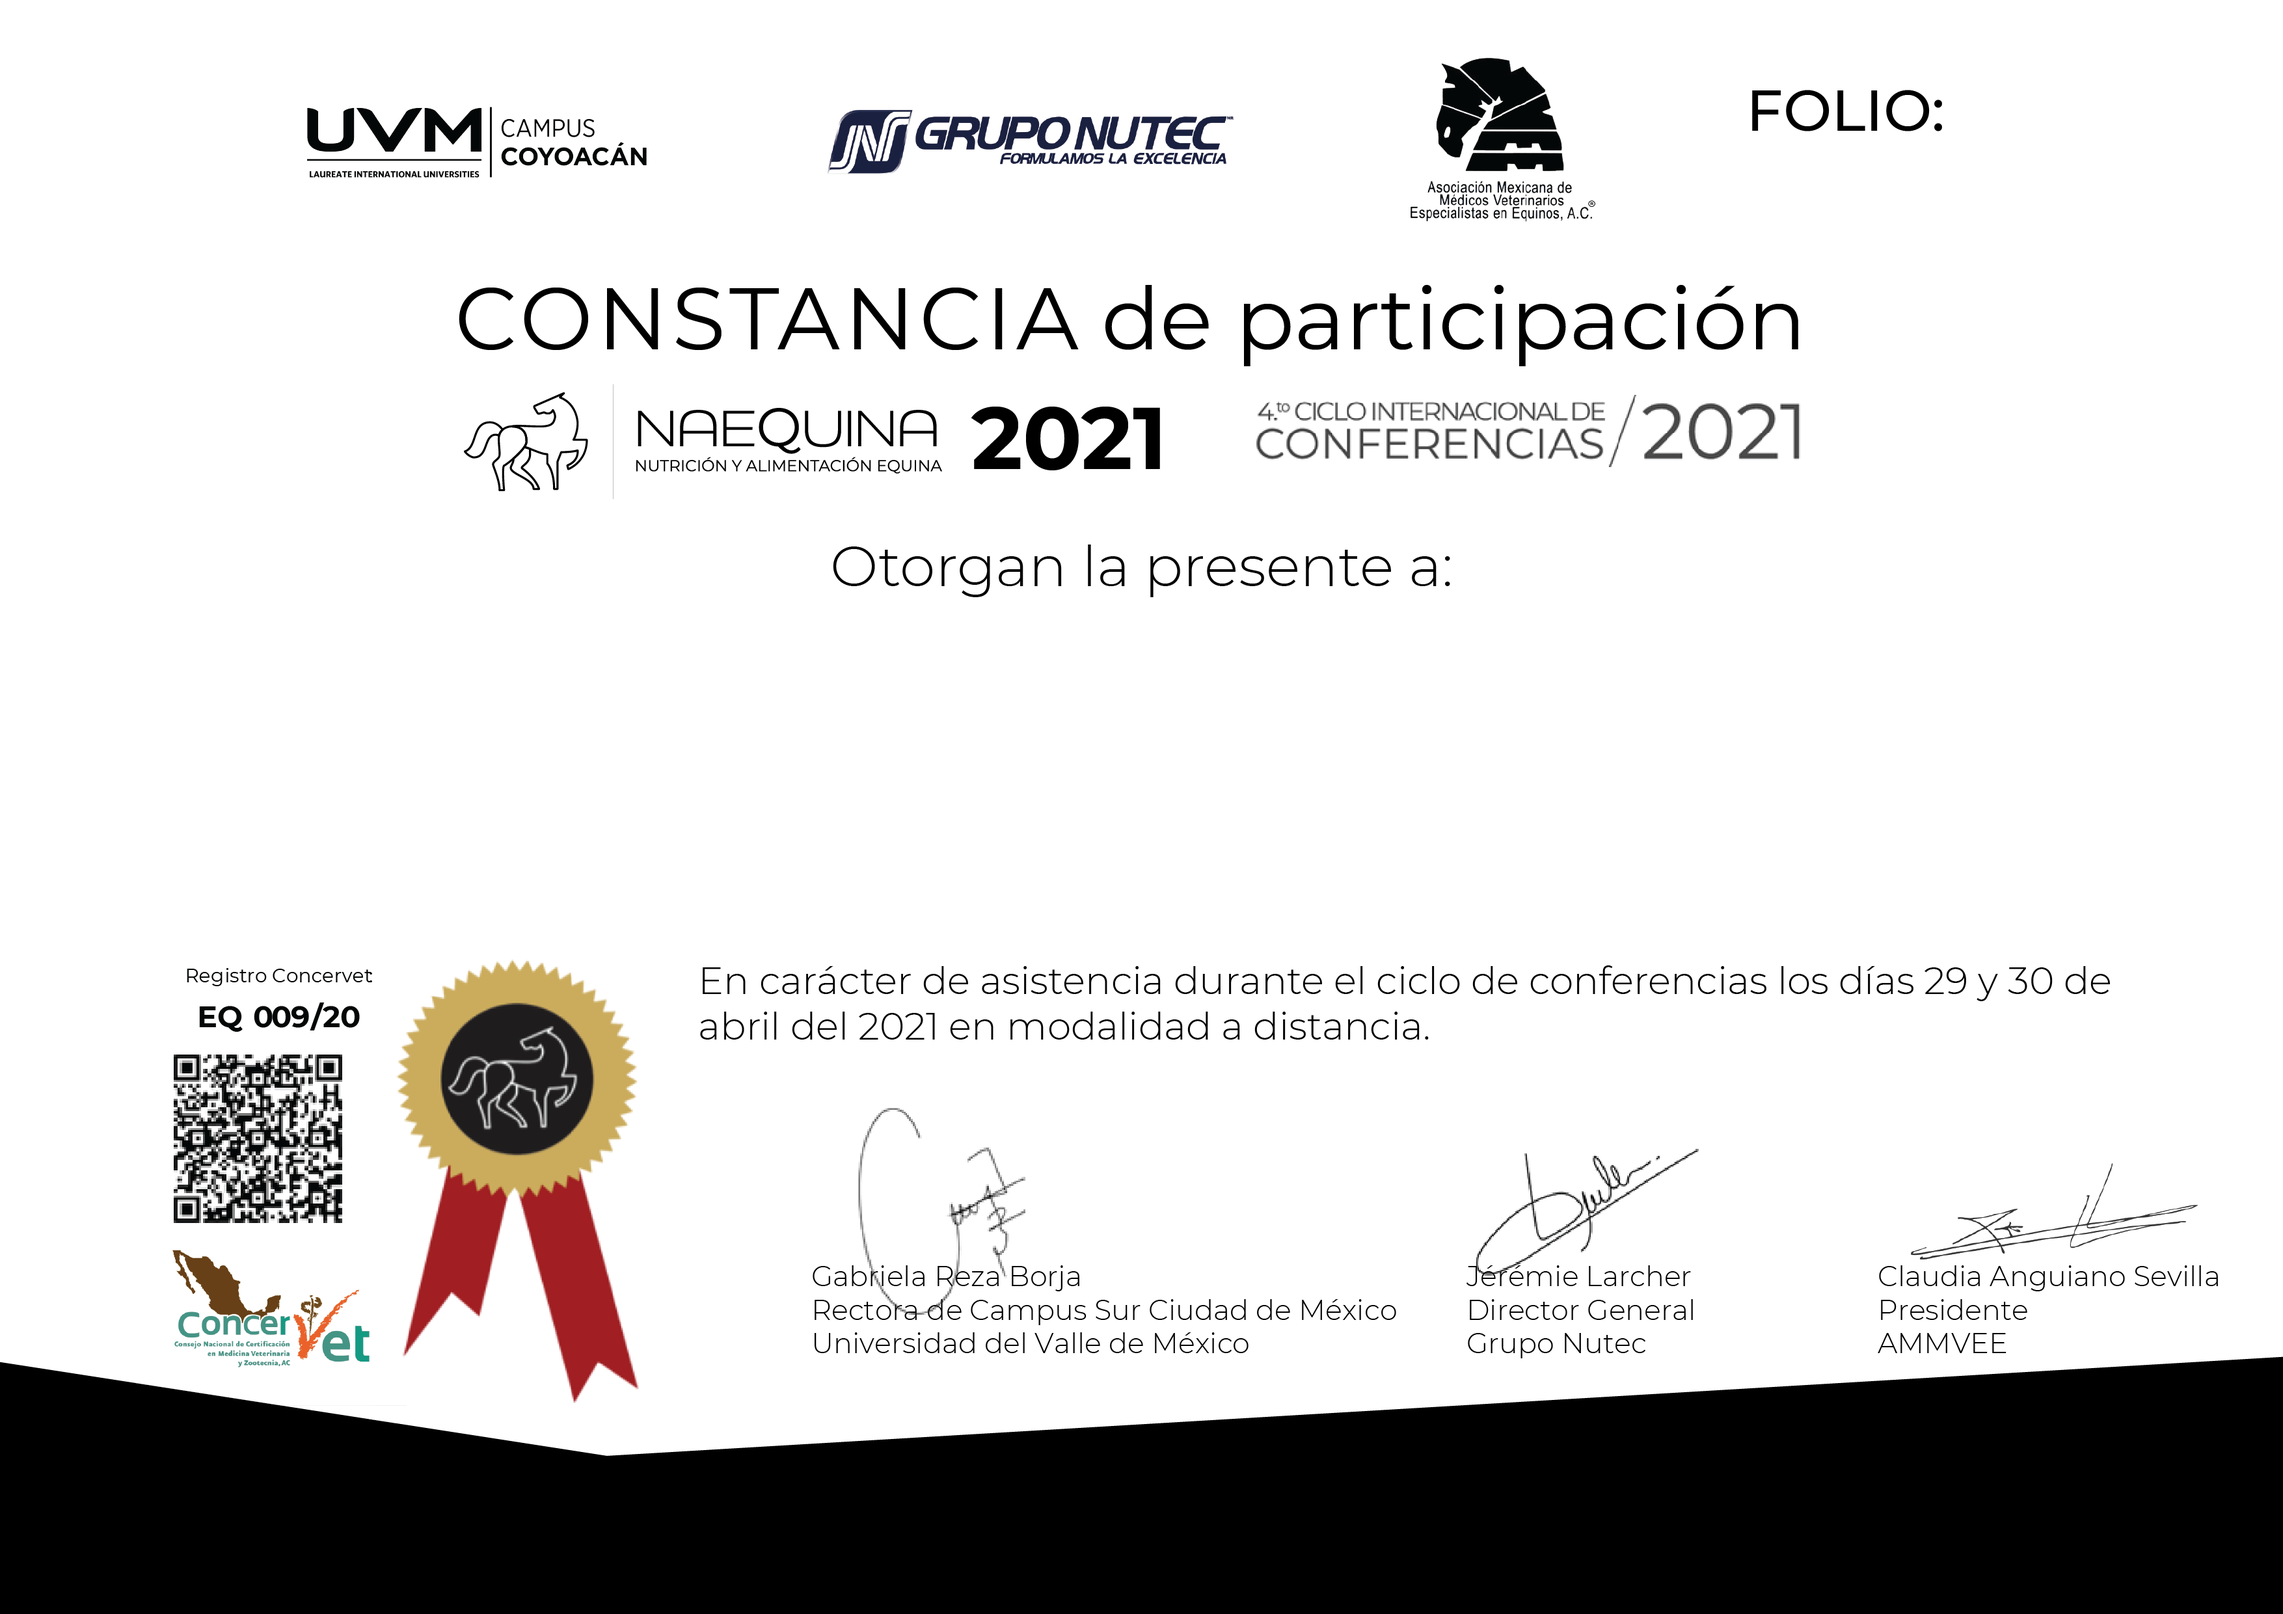
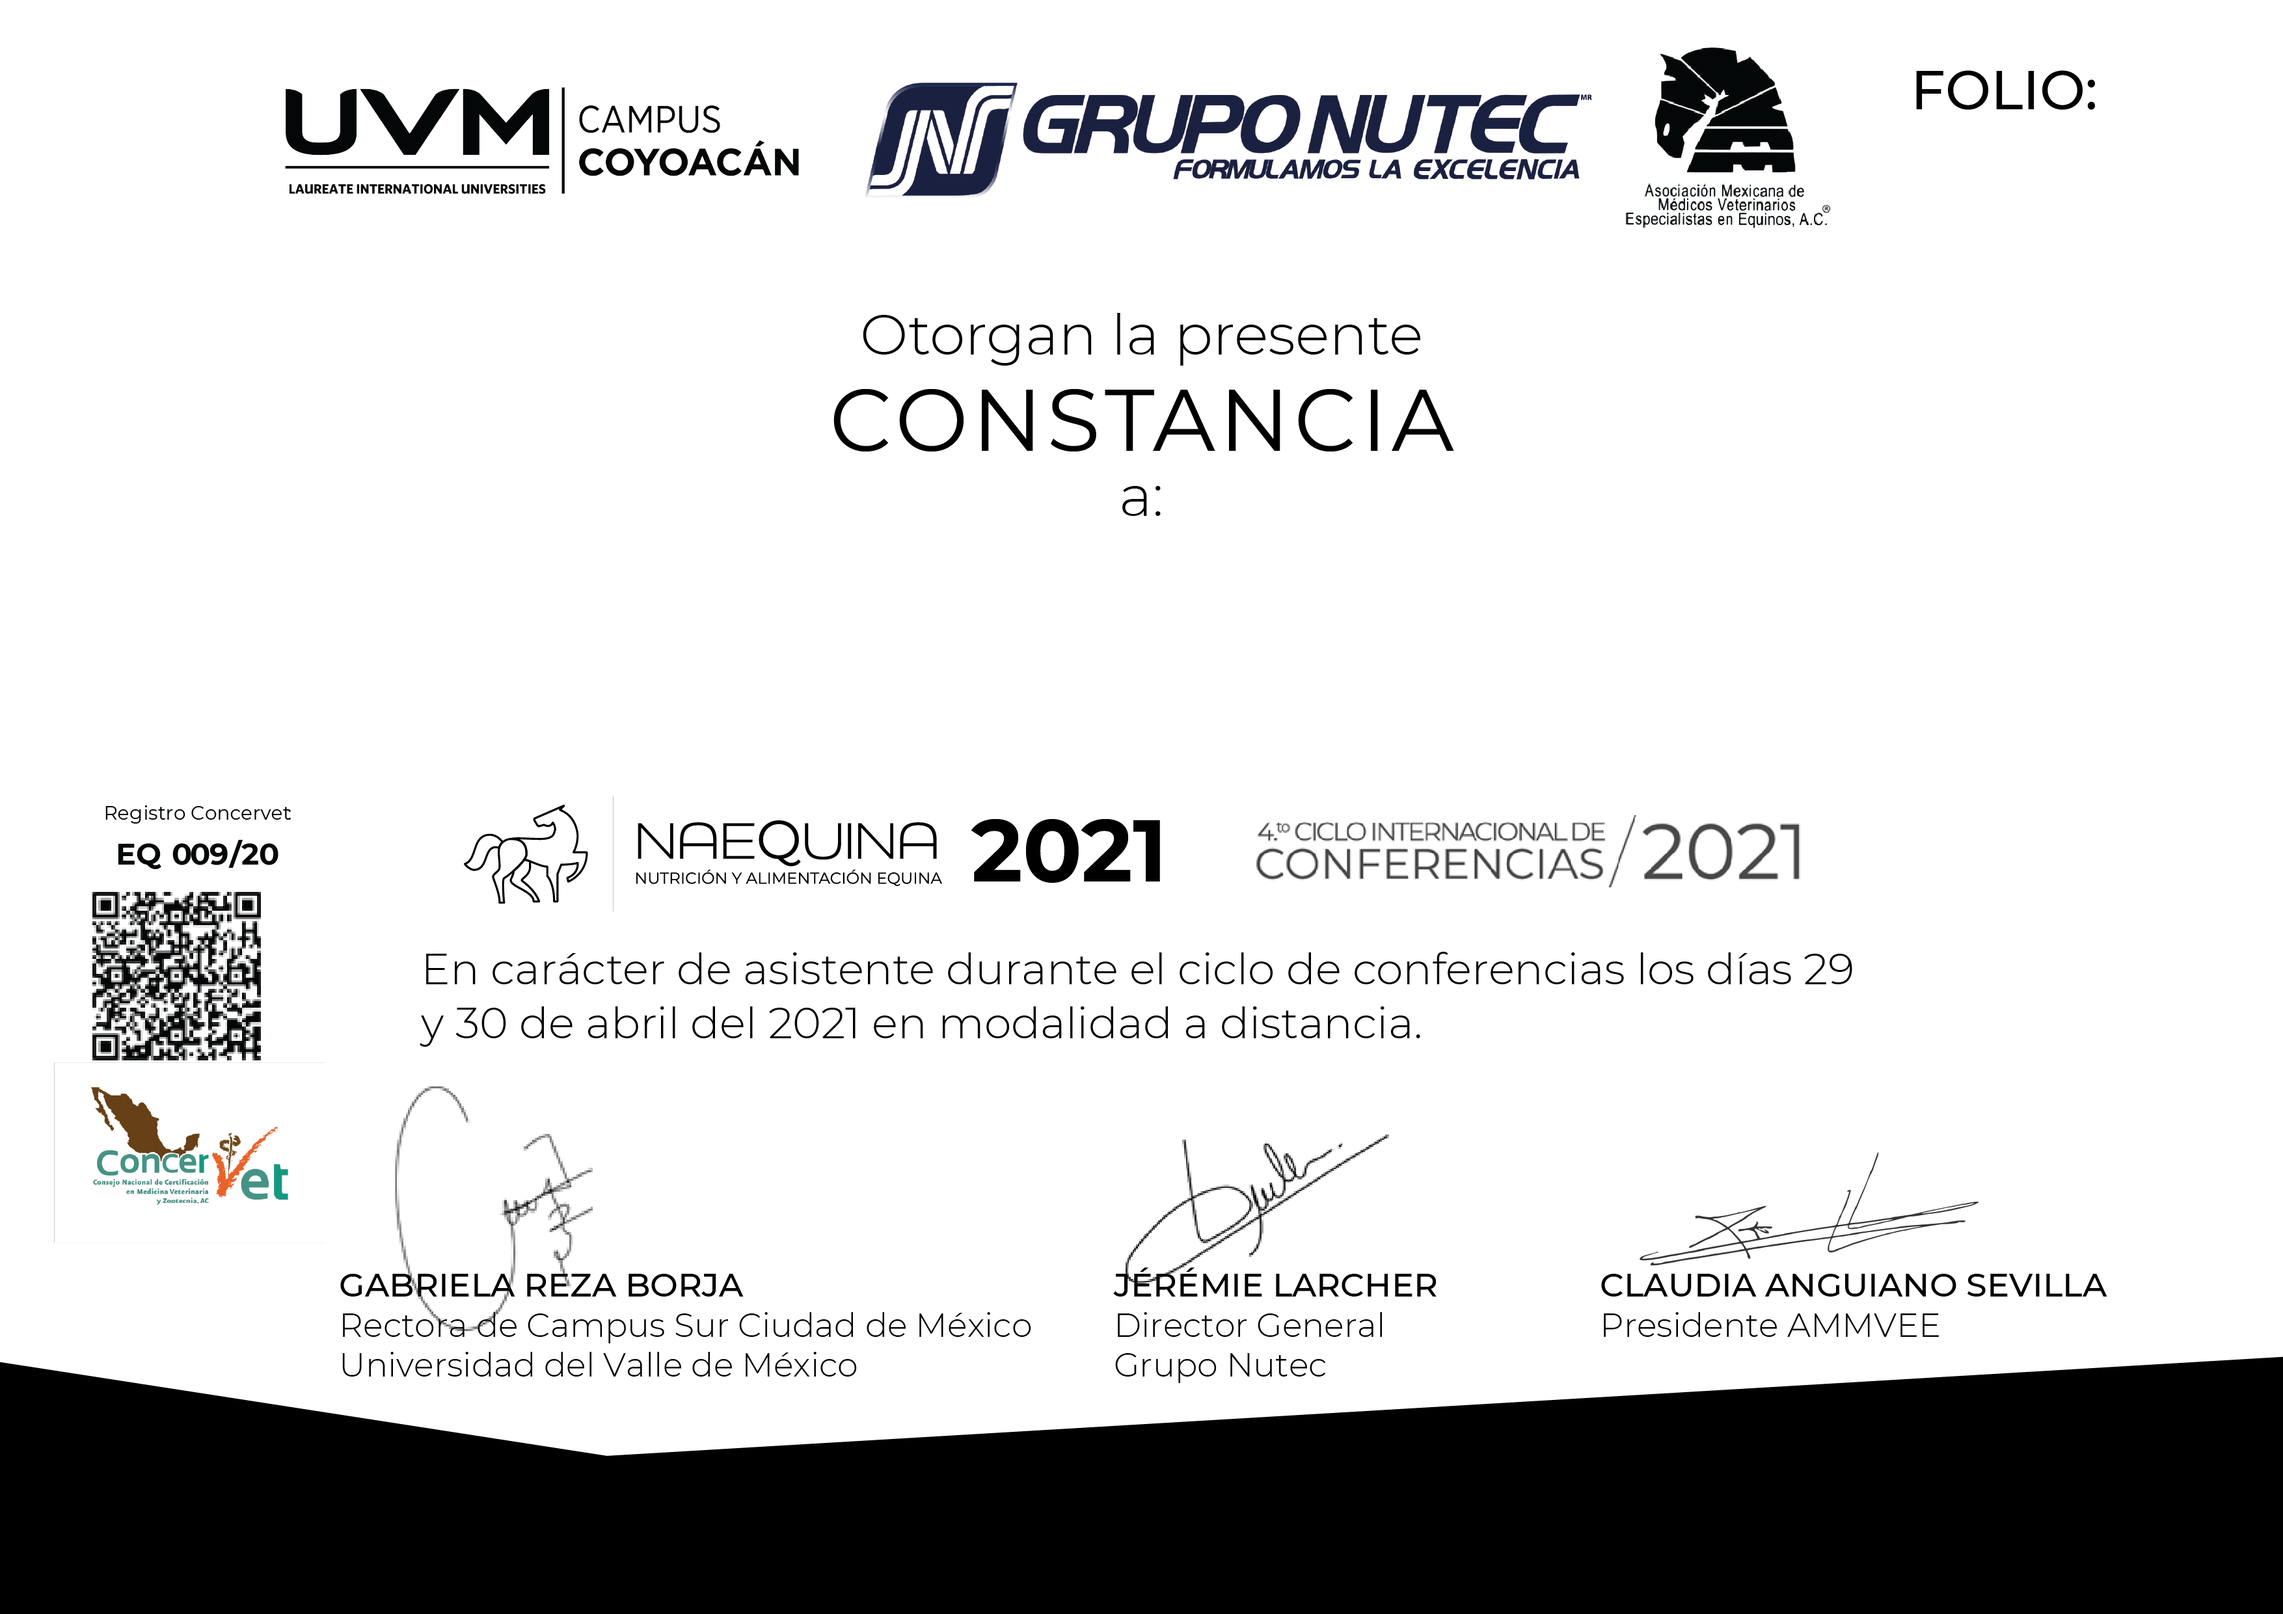
feat(constancia): Imagen Final
- implementacion del diseno final del certificado
- ajustes de posicionamiento de informacion del certificado

diff --git a/backend/templates/test-pdf.html b/backend/templates/test-pdf.html
@@ -14,16 +14,17 @@
     "
   >
     <div
-      style="width: 100%; text-align: right; margin-top: 35px; font-size: 2rem"
+      style="width: 100%; text-align: right; margin-top: 25px; font-size: 2rem"
     >
-      <span style="padding-right: 3mm; margin-right: 3mm">{{folio}}</span>
+      <span style="padding-right: 1px; margin-right: 1mm">{{folio}}</span>
     </div>
     <div
       style="
         width: 100%;
         text-align: center;
-        margin-top: 230px;
+        margin-top: 210px;
         font-size: 3.5rem;
+        line-height: 3.5rem;
       "
     >
       {{asistente}}
